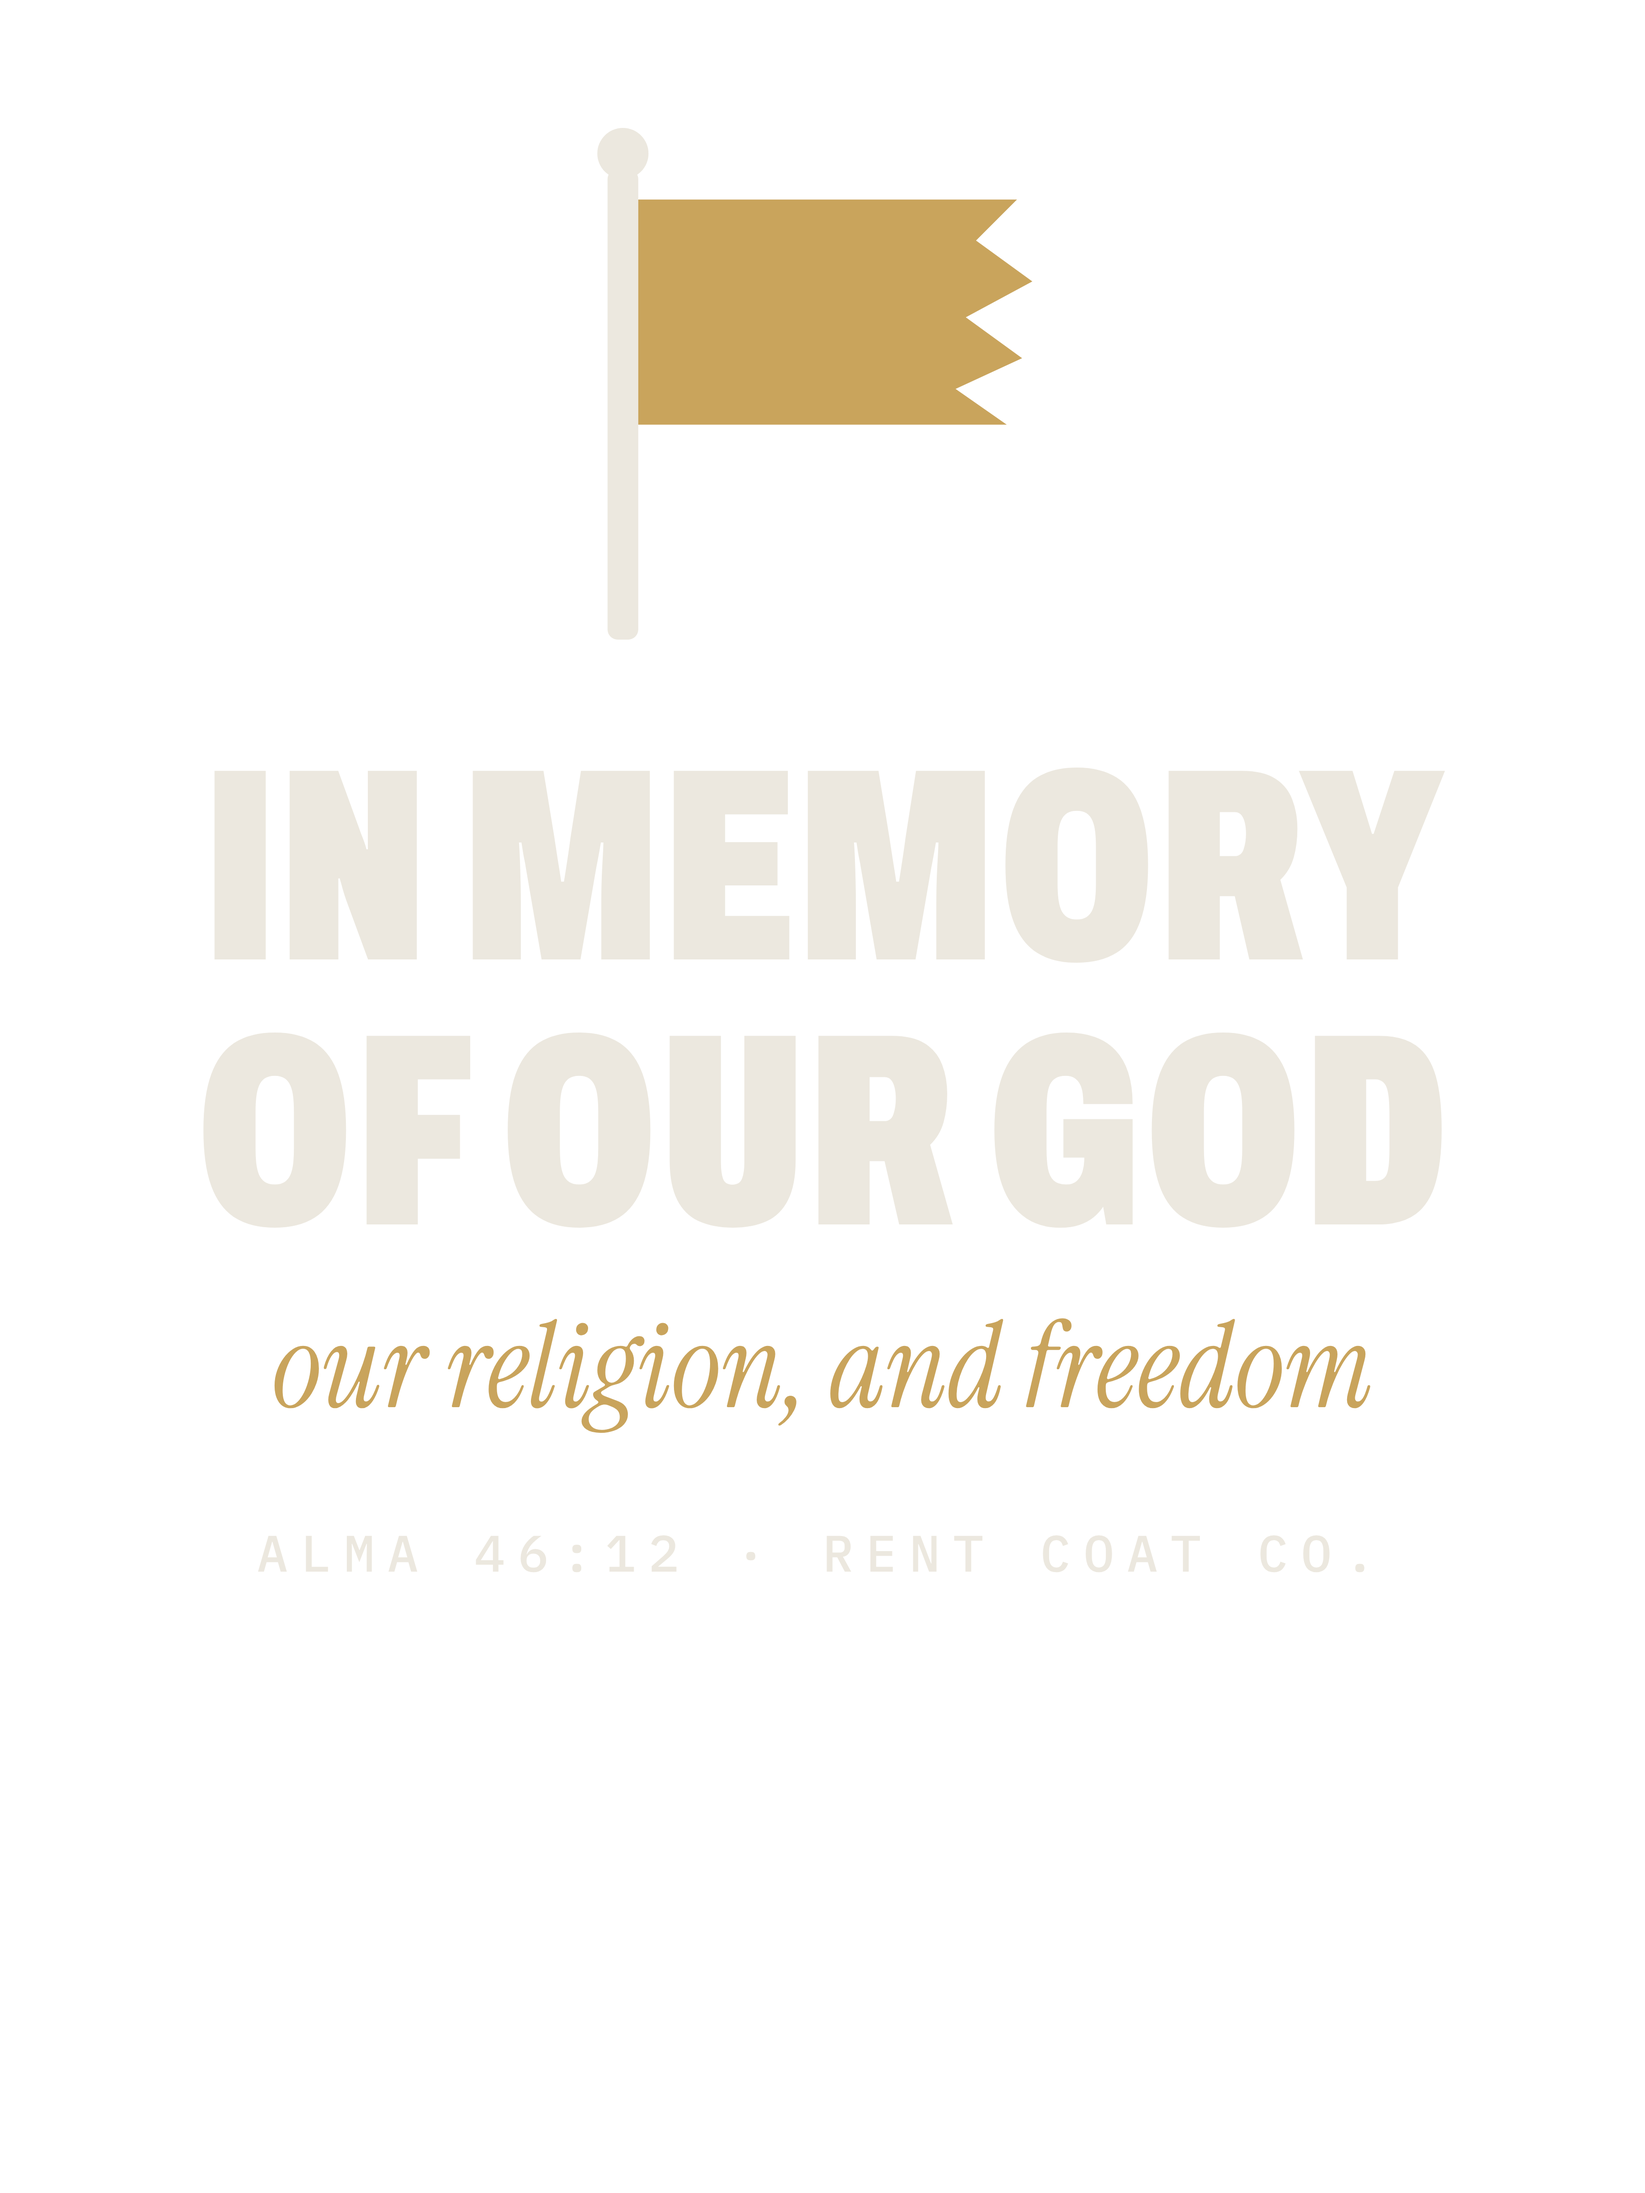
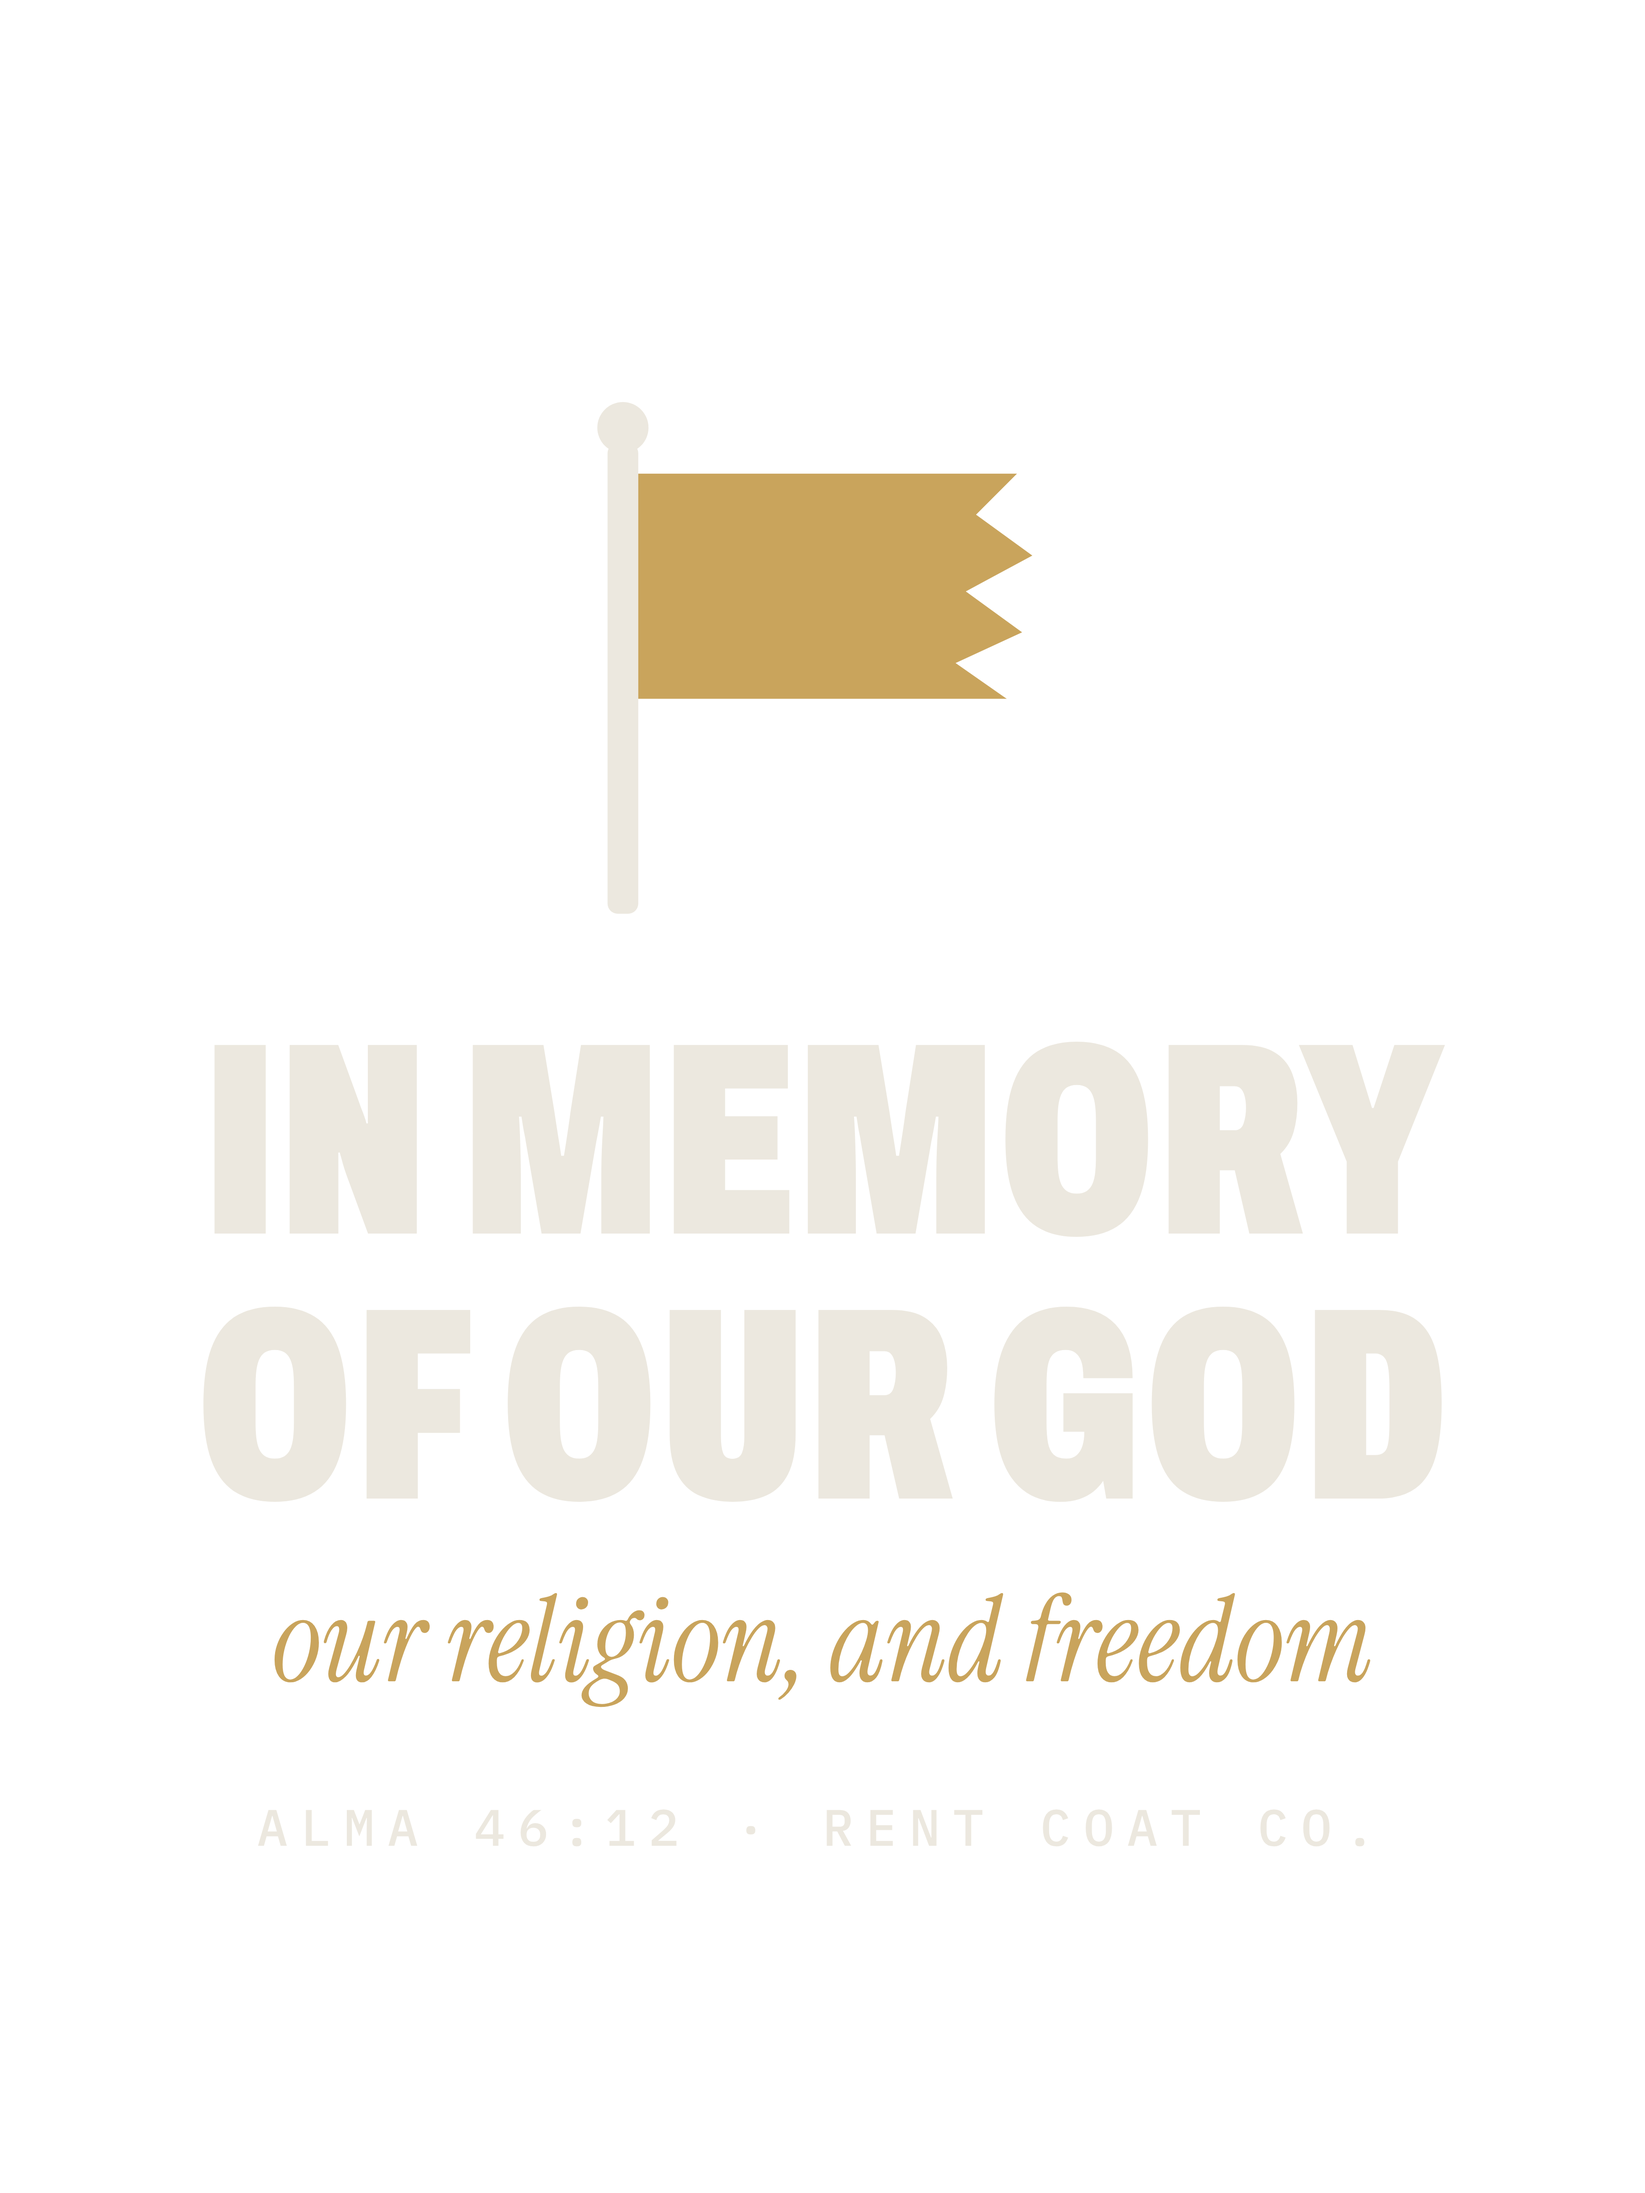
Product QA: sharper engravings, hood-safe backs, embroidery text at minimum size
- Samuel and Liahona: sharpen the enlarged line art so it prints crisp
- Sure Foundation: redraw the soft photo-engraving as a halftone screen, and lift the bottom off the print edge
- Chest prints: about 3.5-3.8 in wide instead of 2.5-3.3
- Hoodie backs: nothing in the top 2 in, where the hood lies (Rent, Stripling, Jesus Is King, Mount Shelem, Missionary Mom)
- Fleece and windbreaker: small lines raised to Printful's 0.25 in minimum for embroidered text

Claude-Session: https://claude.ai/code/session_012fgryk7YEBxD29Fe3MPeG5

diff --git a/scripts/art/concepts2.py b/scripts/art/concepts2.py
@@ -4,19 +4,19 @@ import sys; sys.path.insert(0, "scripts/art")
 from concepts import *
 
 def front_mark(name, ink, cloth):
-    """A small left-chest print (wearer's left): the flag and a short line, about 3.5 in wide."""
+    """A left-chest print (wearer's left): the flag and a short line, about 3.8 in wide."""
     img = canvas(); d = ImageDraw.Draw(img); cx, y = 2560, 640
-    f = fit_text(name, "black", 1000, 150); tw = d.textlength(name, font=f)
+    f = fit_text(name, "black", 1150, 200); tw = d.textlength(name, font=f)
     d.polygon([(cx - 60, y - 230), (cx + 60, y - 230), (cx + 44, y - 206), (cx + 64, y - 184), (cx + 40, y - 164), (cx + 58, y - 142), (cx - 60, y - 142)], fill=cloth)
     d.rectangle((cx - 74, y - 236, cx - 60, y - 120), fill=ink)
     d.text((cx, y), name, font=f, fill=ink, anchor="mm")
-    text(img, (cx, y + 130), "RENT COAT CO.", font("semi", 60), ink, spacing=14)
+    text(img, (cx, y + 150), "RENT COAT CO.", font("semi", 72), ink, spacing=16)
     save(img, f"concept-{slug}-front")
 
 # ---- Gothic chrome on a hoodie: "Jesus is King" across the back (the Etsy bestseller format) ----
 def jik_hoodie():
     global slug; slug = "jik-hoodie"
-    img = canvas(); mark(img, BONE, RED, y=640)
+    img = canvas()  # no top mark on hoodie backs: the hood covers it
     paste_center(img, chrome_text("Jesus", font("goth", 1150), SILVER), 1600)
     paste_center(img, chrome_text("is", font("goth", 620), SILVER), 2380)
     paste_center(img, chrome_text("King", font("goth", 1300), SILVER), 3230)
@@ -30,7 +30,7 @@ def samuel():
     img = canvas(); mark(img, BONE, GOLD)
     src = Image.open("art/src/bom-samuel-1.png").convert("L"); src = src.crop((40, 40, src.width - 40, src.height - 260)).convert("RGB")
     src.save("/tmp/_samuel.png")
-    eng = ink_from_engraving("/tmp/_samuel.png", BONE, (2700, int(2700 * src.height / src.width)), contrast=1.5)
+    eng = ink_from_engraving("/tmp/_samuel.png", BONE, (2700, int(2700 * src.height / src.width)), contrast=1.5, crisp=True)
     paste_center(img, eng, 400 + eng.height / 2)
     y = 420 + eng.height
     text(img, (W / 2, y + 260), "THEY COULD NOT HIT HIM", fit_text("THEY COULD NOT HIT HIM", "black", 3300, 520), GOLD)
@@ -44,20 +44,20 @@ def storm():
     img = canvas(); mark(img, NIGHT, RED)
     text(img, (W / 2, 760), "WHEN ALL HIS HAIL AND HIS MIGHTY STORM", fit_text("WHEN ALL HIS HAIL AND HIS MIGHTY STORM", "black", 3100, 170), NIGHT)
     text(img, (W / 2, 960), "SHALL BEAT UPON YOU", fit_text("SHALL BEAT UPON YOU", "black", 3100, 170), NIGHT)
-    eng = ink_from_engraving("art/src/bom-ottinger-1.png", NIGHT, (3200, int(3200 * 1192 / 1672)), contrast=1.5)
+    eng = ink_from_engraving("art/src/bom-ottinger-1.png", NIGHT, (3200, int(3200 * 1192 / 1672)), contrast=1.25, screen=16)
     eng = eng.crop((0, 0, eng.width, eng.height - 120))
     m = Image.new("L", eng.size, 0); ImageDraw.Draw(m).rounded_rectangle((0, 0, eng.width, eng.height), 70, fill=255)
     eng.putalpha(ImageChops.multiply(eng.getchannel("A"), m)); paste_center(img, eng, 1250 + eng.height / 2)
     y = 1290 + eng.height
-    text(img, (W / 2, y + 360), "IT SHALL HAVE", fit_text("IT SHALL HAVE", "black", 3300, 560), RED)
-    text(img, (W / 2, y + 860), "NO POWER OVER YOU", fit_text("NO POWER OVER YOU", "black", 3300, 560), RED)
-    verse_ref(img, y + 1240, "HELAMAN 5:12", NIGHT); save(img, "concept-storm-back")
+    text(img, (W / 2, y + 320), "IT SHALL HAVE", fit_text("IT SHALL HAVE", "black", 3300, 520), RED)
+    text(img, (W / 2, y + 780), "NO POWER OVER YOU", fit_text("NO POWER OVER YOU", "black", 3300, 520), RED)
+    verse_ref(img, y + 1120, "HELAMAN 5:12", NIGHT); save(img, "concept-storm-back")
     front_mark("A SURE FOUNDATION", NIGHT, RED)
 
 # ---- Vintage park poster: Mount Shelem (NPS photo of the Tetons, public domain) ----
 def shelem():
     global slug; slug = "shelem"
-    img = canvas(); mark(img, BONE, GOLD, y=640)
+    img = canvas()
     text(img, (W / 2, 1000), "MOUNT SHELEM", fit_text("MOUNT SHELEM", "black", 3300, 700), BONE)
     text(img, (W / 2, 1420), "ALPINE CLUB  ·  EST. ETHER 3", font("semi", 120), GOLD, spacing=30)
     ph = duotone_photo("art/src/mountain-nps-1.jpg", (3100, 2100), (190, 92, 60), (255, 226, 190), box=(0, 300, 3840, 2900), cutoff=0.05)
@@ -72,7 +72,7 @@ def liahona():
     global slug; slug = "liahona"
     img = canvas(); mark(img, NIGHT, RED, y=640)
     src = Image.open("art/src/compass-engraving-1.jpg").convert("L")
-    rose = ink_from_engraving("art/src/compass-engraving-1.jpg", NIGHT, (2700, 2720), contrast=1.3, gamma=0.9)
+    rose = ink_from_engraving("art/src/compass-engraving-1.jpg", NIGHT, (2700, 2720), contrast=1.3, gamma=0.9, crisp=True)
     m = Image.new("L", rose.size, 0); ImageDraw.Draw(m).ellipse((40, 40, 2660, 2680), fill=255)
     rose.putalpha(ImageChops.multiply(rose.getchannel("A"), m)); paste_center(img, rose, 2250)
     d = ImageDraw.Draw(img); d.ellipse((420, 860, 3180, 3640), outline=RED, width=18)
@@ -84,11 +84,11 @@ def liahona():
 # ---- Gothic script, small and sweet: for missionary moms (Mother's Day) ----
 def mom():
     global slug; slug = "mom"
-    img = canvas(); mark(img, NIGHT, RED, y=640)
-    paste_center(img, chrome_text("We do not doubt", font("goth2", 330), [(0, (60, 70, 62)), (1, (22, 32, 27))]), 1300)
-    paste_center(img, chrome_text("our mothers", font("goth2", 520), [(0, (190, 80, 60)), (1, (150, 50, 38))]), 1820)
-    paste_center(img, chrome_text("knew it.", font("goth2", 520), [(0, (60, 70, 62)), (1, (22, 32, 27))]), 2380)
-    verse_ref(img, 2900, "ALMA 56:48", RED); save(img, "concept-mom-back")
+    img = canvas()
+    paste_center(img, chrome_text("We do not doubt", font("goth2", 360), [(0, (60, 70, 62)), (1, (22, 32, 27))]), 1350)
+    paste_center(img, chrome_text("our mothers", font("goth2", 600), [(0, (190, 80, 60)), (1, (150, 50, 38))]), 1950)
+    paste_center(img, chrome_text("knew it.", font("goth2", 600), [(0, (60, 70, 62)), (1, (22, 32, 27))]), 2600)
+    verse_ref(img, 3200, "ALMA 56:48", RED); save(img, "concept-mom-back")
     img = canvas(); f = font("goth2", 250); d = ImageDraw.Draw(img)
     d.text((2560, 560), "Missionary", font=f, fill=NIGHT, anchor="mm"); d.text((2560, 800), "Mom", font=font("goth2", 300), fill=RED, anchor="mm")
     save(img, "concept-mom-front")

diff --git a/scripts/art/concepts.py b/scripts/art/concepts.py
@@ -42,12 +42,23 @@ def mark(img, ink, cloth, y=200):
     d.polygon([(x0 + 14, y - 70), (x0 + 120, y - 70), (x0 + 104, y - 44), (x0 + 124, y - 20), (x0 + 100, y), (x0 + 118, y + 22), (x0 + 14, y + 22)], fill=cloth)
     d.text((x0 + 150, y + 6), label, font=f, fill=ink, anchor="lm")
 
-def ink_from_engraving(path, color, size, contrast=1.6, gamma=1.0):
-    """Turns a black-on-paper engraving into one ink color: dark lines become solid ink, paper becomes clear."""
+def ink_from_engraving(path, color, size, contrast=1.6, gamma=1.0, screen=0, crisp=False):
+    """Turns a black-on-paper engraving into one ink color: dark lines become solid ink, paper becomes clear.
+    screen=N redraws soft, tonal art (photo-engravings) as a halftone dot screen with N-pixel cells, so it prints
+    sharp at any size; crisp=True sharpens line art that has been enlarged."""
     im = Image.open(path).convert("L"); im = ImageOps.autocontrast(im, cutoff=1)
     im = im.resize(size, Image.LANCZOS)
+    if crisp: im = im.filter(ImageFilter.UnsharpMask(radius=4, percent=180, threshold=2))
     a = 1 - np.asarray(im, dtype=np.float32) / 255
     a = np.clip((a - 0.12) * contrast, 0, 1) ** gamma
+    if crisp: a = np.clip((a - 0.5) * 2.2 + 0.5, 0, 1)
+    if screen:
+        yy, xx = np.mgrid[0:a.shape[0], 0:a.shape[1]]
+        # 45-degree screen: dot area matches the tone
+        u, v = (xx + yy) / np.sqrt(2), (xx - yy) / np.sqrt(2)
+        cu, cv = (u % screen) - screen / 2, (v % screen) - screen / 2
+        r = np.sqrt(cu ** 2 + cv ** 2) / (screen / 2)
+        a = (r < np.sqrt(np.clip(a, 0, 1)) * 1.15).astype(np.float32)
     out = np.zeros((*a.shape, 4), np.uint8); out[..., :3] = color; out[..., 3] = (a * 255).astype(np.uint8)
     return Image.fromarray(out, "RGBA")
 
